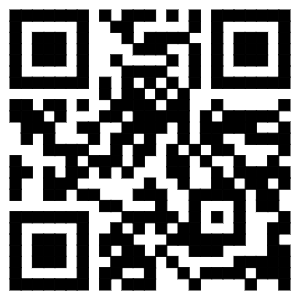
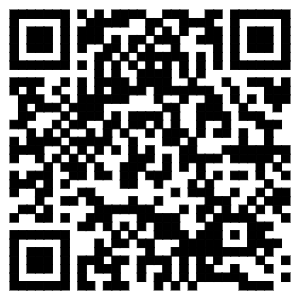
add qr code in android

diff --git a/src/components/mobile/AdOne/AdOne.js b/src/components/mobile/AdOne/AdOne.js
@@ -103,6 +103,7 @@ class AdOne extends Component{
     let header_1 = getContent(this.props.version).scene1.header_1;
     let header_2 = getContent(this.props.version).scene1.header_2;
     let subtitle = getContent(this.props.version).scene1.subtitle;
+    let long_press = getContent(this.props.version).scene1.long_press;
     let img_type;
     if (this.props.version === 3 || this.props.version === 4){
       img_type = '_tw';
@@ -111,7 +112,7 @@ class AdOne extends Component{
     }
 
     const { isModalActive } = this.state
-    const { os, isWx } = this.props
+    const { os, ua, isWx } = this.props
 
     return(
       <div className="AdOne">
@@ -127,7 +128,6 @@ class AdOne extends Component{
           <div className="download">
             <a href="/ios-download"
               className={`ios ${(os != 'AndroidOS') && 'active'}`}
-              target="_self"
               data-download="ios"
               onClick={::this.onClickIos}>
               <img ref="icon1"
@@ -135,14 +135,21 @@ class AdOne extends Component{
                   require('./ios_qr_code.png') :
                   require('./apple' + img_type + '.png')}
                 data-download="ios"/>
+                { isWx &&
+                  <span className="long-press">{long_press}</span>
+                }
             </a>
             <a href="/download"
               className={`android ${(os != 'iOS') && 'active'}`}
-              target="_self"
               data-download="android">
               <img ref="icon2"
-                src={isWx? '' : require('./android' + img_type + '.png')}
+                src={isWx?
+                  require('./android_qr_code.png') :
+                  require('./android' + img_type + '.png')}
                 data-download="android"/>
+                { isWx &&
+                  <span className="long-press">{long_press}</span>
+                }
             </a>
           </div>
         </div>

diff --git a/src/components/mobile/SwipeView/SwipeView.js b/src/components/mobile/SwipeView/SwipeView.js
@@ -29,12 +29,13 @@ class SwipeView extends Component {
   componentDidMount() {
     const ua = window.navigator.userAgent
     const md = new MobileDetect(ua)
-    const isWx = !! ua.match(/MicroMessenger/i) == 'micromessenger'
+    const isWx = !! ua.toLowerCase().match(/micromessenger/i)
 
     this.setState({
       viewWidth: window.innerWidth,
       viewHeight: window.innerHeight,
       os: md.os(),
+      ua: ua,
       isWx: isWx
     })
 
@@ -112,7 +113,7 @@ class SwipeView extends Component {
         <div className='swipe-wrap'>
           <div style={styles} className="ad ad1">
             <div className="ad-wrap">
-              <AdOne os={this.state.os} active = {this.state.slide1} {...props} />
+              <AdOne {...this.state} active = {this.state.slide1} {...props} />
             </div>
           </div>
           <div style={styles} className="ad ad2">

diff --git a/src/constants/ABTest.js b/src/constants/ABTest.js
@@ -5,7 +5,8 @@ let lines = [
     scene1: {
       header_1: "2014沃顿商学院",
       header_2: "全球教育创新总冠军",
-      subtitle: "中国学生定制版"
+      subtitle: "中国学生定制版",
+      long_press: "长按二维码後点选「识别图中QR Code」"
     },
     scene2: {
       header: "答题攻地",
@@ -61,7 +62,8 @@ let lines = [
     scene1: {
       header_1: "2014華頓商學院",
       header_2: "全球教育創新總冠軍",
-      subtitle: "台灣學生定製版"
+      subtitle: "台灣學生定製版",
+      long_press: "長按左圖後點選「識別圖中QR Code」"
     },
     scene2: {
       header: "答題攻地",

diff --git a/src/components/mobile/AdOne/AdOne.css b/src/components/mobile/AdOne/AdOne.css
@@ -30,8 +30,17 @@
 
       a {
         display: none;
+        text-decoration: none;
         &.active {
           display: inline-block;
+        }
+        span.long-press {
+          display: inline-block;
+          font-size: 14px;
+          color: white;
+          font-weight: bold;
+          width: 200px;
+          vertical-align: middle;
         }
       }
 
